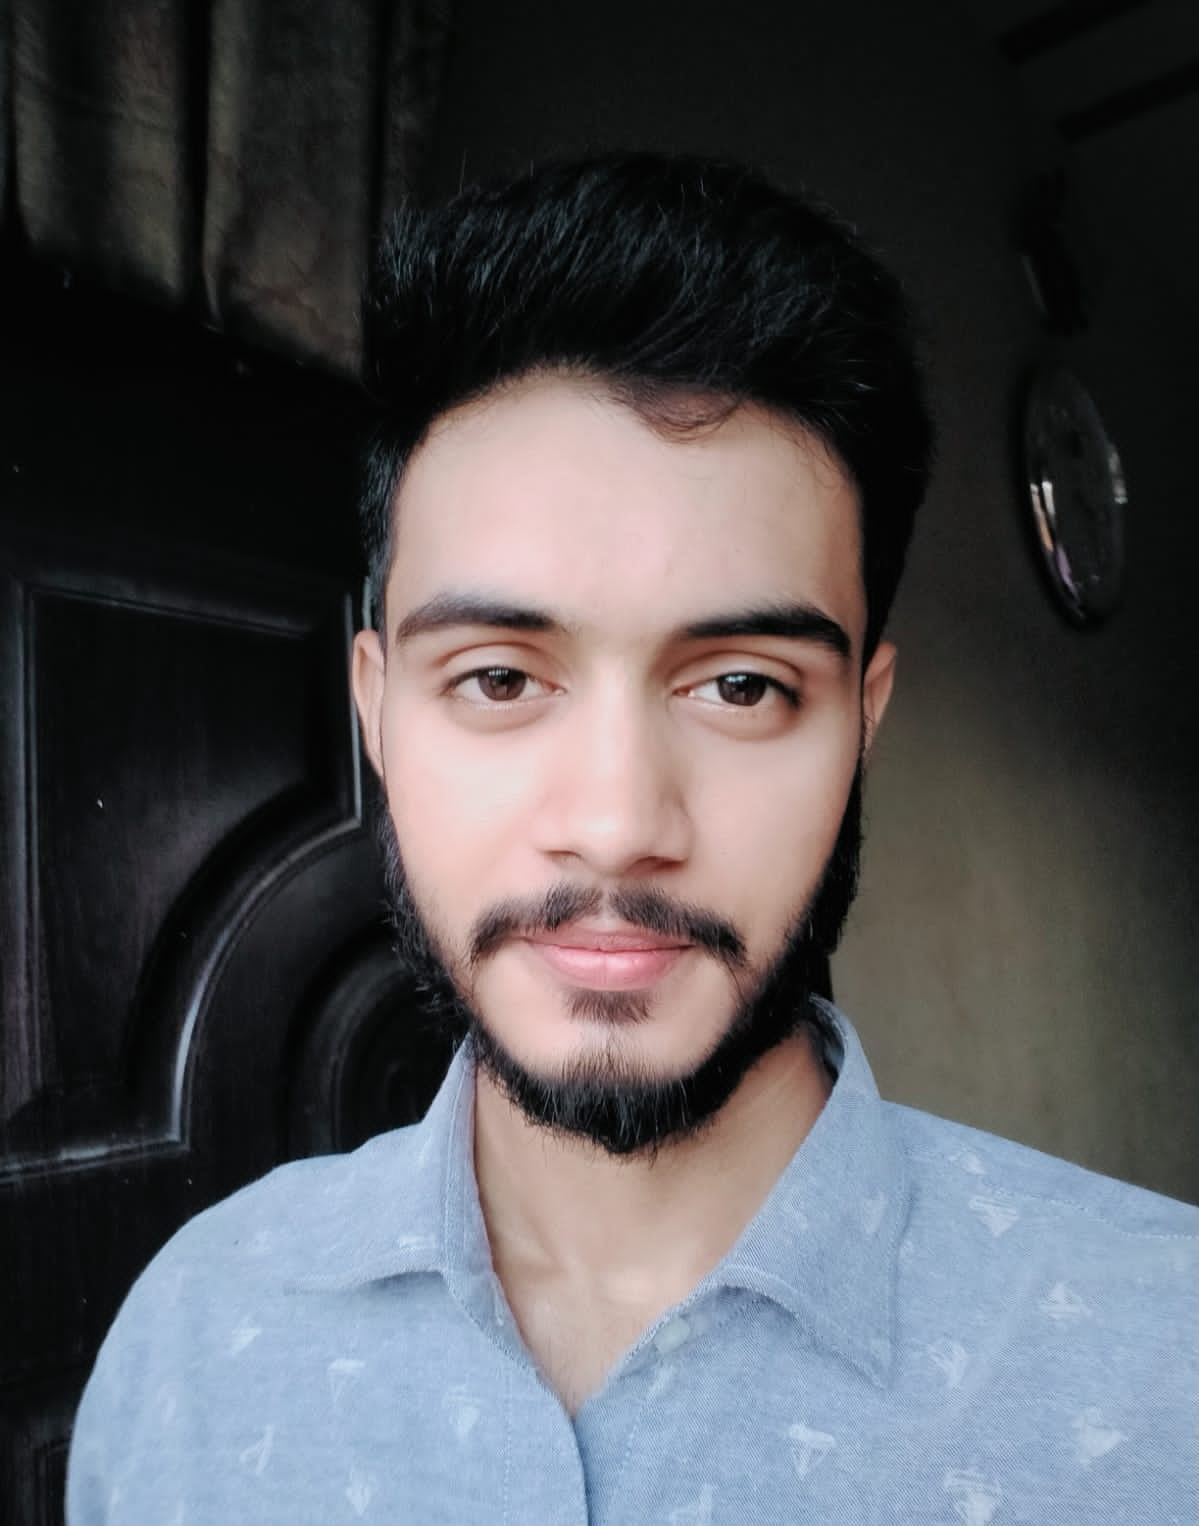
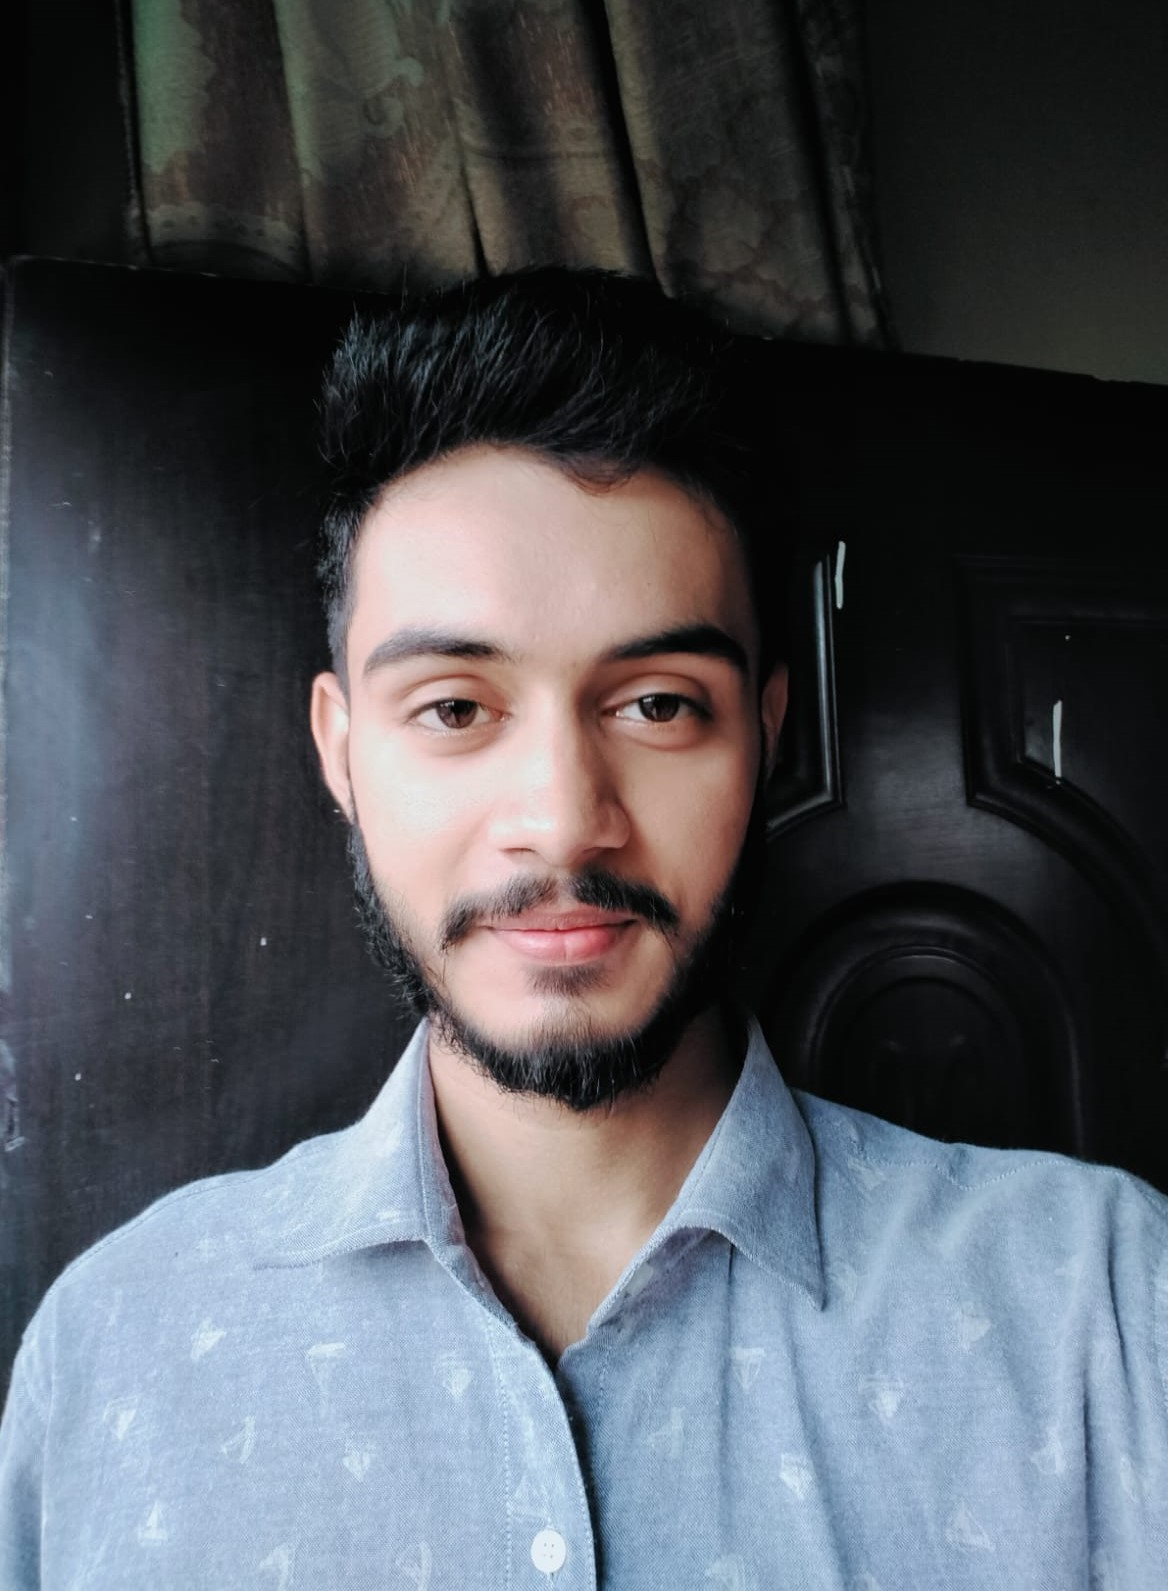
pictures improving

diff --git a/index.html b/index.html
@@ -55,7 +55,7 @@ https://templatemo.com/tm-578-first-portfolio
             <div class="d-flex align-items-center d-lg-none">
                 <i class="navbar-icon bi-telephone-plus me-3"></i>
                 <a class="custom-btn btn" href="#section_5">
-                    120-240-9600
+                    +92 3168946190
                 </a>
             </div>
 
@@ -102,8 +102,7 @@ https://templatemo.com/tm-578-first-portfolio
                     <div class="col-lg-7 col-12">
                         <div class="hero-text">
                             <div class="hero-title-wrap d-flex align-items-center mb-4">
-                                <img src="images/happy-bearded-young-man.jpg"
-                                    class="avatar-image avatar-image-large img-fluid" alt="">
+                                <img src="images/umair.jpg" class="avatar-image avatar-image-large img-fluid" alt="">
 
                                 <h1 class="hero-title ms-3 mb-0">Hello Merchants!</h1>
                             </div>
